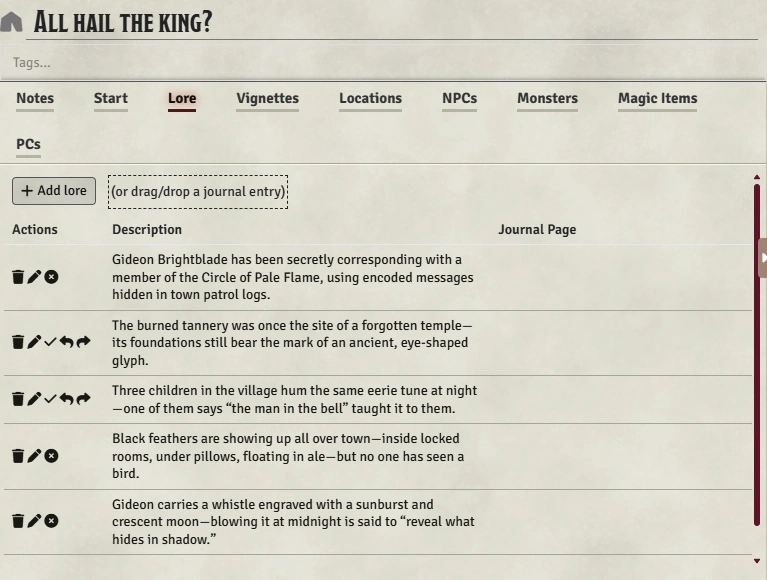
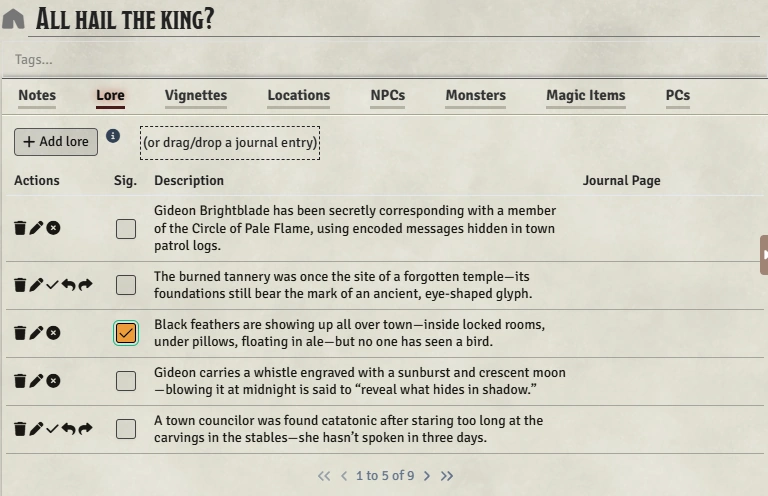
updated lore docs

Changed region(s): [[0.0, 0.0, 1.0, 0.998], [0.7497, 0.3327, 0.8696, 0.3931], [0.8096, 0.9375, 0.8396, 0.9677]]

diff --git a/src/applications/stores/sessionStore.ts b/src/applications/stores/sessionStore.ts
@@ -75,7 +75,7 @@ export const useSessionStore = defineStore('session', () => {
     [SessionTableTypes.Lore]: [
       { field: 'significant', header: 'Sig.', editable: true, type: 'boolean', tooltip: 'Mark as Significant/Insignificant', style: 'text-align: center; width: 40px; max-width: 40px' },
       { field: 'description', style: 'text-align: left', header: 'Description', editable: true },
-      { field: 'journalEntryPageName', style: 'text-align: left; width: 35%;max-width: 35%', header: 'Journal Page', editable: false,
+      { field: 'journalEntryPageName', style: 'text-align: left; width: 25%;max-width: 25%', header: 'Journal Page', editable: false,
         onClick: onJournalClick
       },
     ],  

diff --git a/docs/reference/campaign-mgt/content/campaign/lore.md b/docs/reference/campaign-mgt/content/campaign/lore.md
@@ -8,7 +8,7 @@ next:
   link: '/reference/campaign-mgt/content/campaign/ideas'
 ---
 # Campaign Lore Tab
-![Campaign Lore Tab](/assets/images/lore-tab.webp)
+![Campaign Lore Tab](/assets/images/campaign-lore-tab.webp)
 
 The Lore tab (equivalent to "secrets and clues" in the [Lazy DM] method) allows you to manage campaign-wide knowledge that players might discover. 
 
@@ -37,6 +37,6 @@ The actions column lets you take several actions with the lore entries:
 
 
 ## The delivered lore list
-This list contains all the lore that has already been delivered to the players.  It combines items delivered from the list above with items delivered from the [Session](/reference/campaigns-and-sessions/session) lore table. Over time it is much likely going to be a large list, which is why it's separated from 
+This list contains all the lore that has already been delivered to the players.  It combines items delivered from the list above with items delivered from the [Session](/reference/campaigns-and-sessions/session) lore table.  Session lore items are only included if they are marked as [Significant](/reference/campaign-mgt/content/session/lore#significant) on the Session.
 
 For each lore item, you can see the text, which session it was delivered in (if any), and the linked entry.  Click the session name to open the session details or the linked entry to open the journal entry page.

diff --git a/docs/reference/index.md b/docs/reference/index.md
@@ -40,13 +40,13 @@ Create and manage your campaign world content.
 ## Playing (Campaign management)
 Structure and organize your campaigns and sessions.
 
-- [Overview](playing)
+- [Overview](campaign-mgt)
 - [Campaign Directory](navigation/sidebar#campaign-directory)
-- [Campaign Details](playing/content/campaign)
-- [Session Details](playing/content/session)
-- [To-do List](playing/content/campaign/todos)
-- [Play Mode Navigation](playing/navigation/session-links)
-- [Session Notes Popup](playing/session-notes-popup)
+- [Campaign Details](campaign-mgt/content/campaign)
+- [Session Details](campaign-mgt/content/session)
+- [To-do List](campaign-mgt/content/campaign/todos)
+- [Play Mode Navigation](campaign-mgt/navigation/session-links)
+- [Session Notes Popup](campaign-mgt/session-notes-popup)
 
 ## Configuration
 

diff --git a/docs/reference/campaign-mgt/content/session/lore.md b/docs/reference/campaign-mgt/content/session/lore.md
@@ -24,6 +24,9 @@ You cannot currently remove a linked entry (i.e. remove the link to the journal 
 ## The Lore list
 This list contains the individual pieces of Lore.  For each Lore item, you can see its text and the linked entry.  Click the linked entry (if any) to open the journal entry page.
 
+## "Significant" lore {#significant}
+The "Sig." (Significant) column indicates whether this lore should be treated as significant to the overall Campaign or only relevant to this Session.  This determines whether it will show up on the Campaign delivered lore list or not.
+
 ### Lore Actions
 The actions column lets you take several actions with the Lore entries:
   - **Delete** - Delete the Lore
